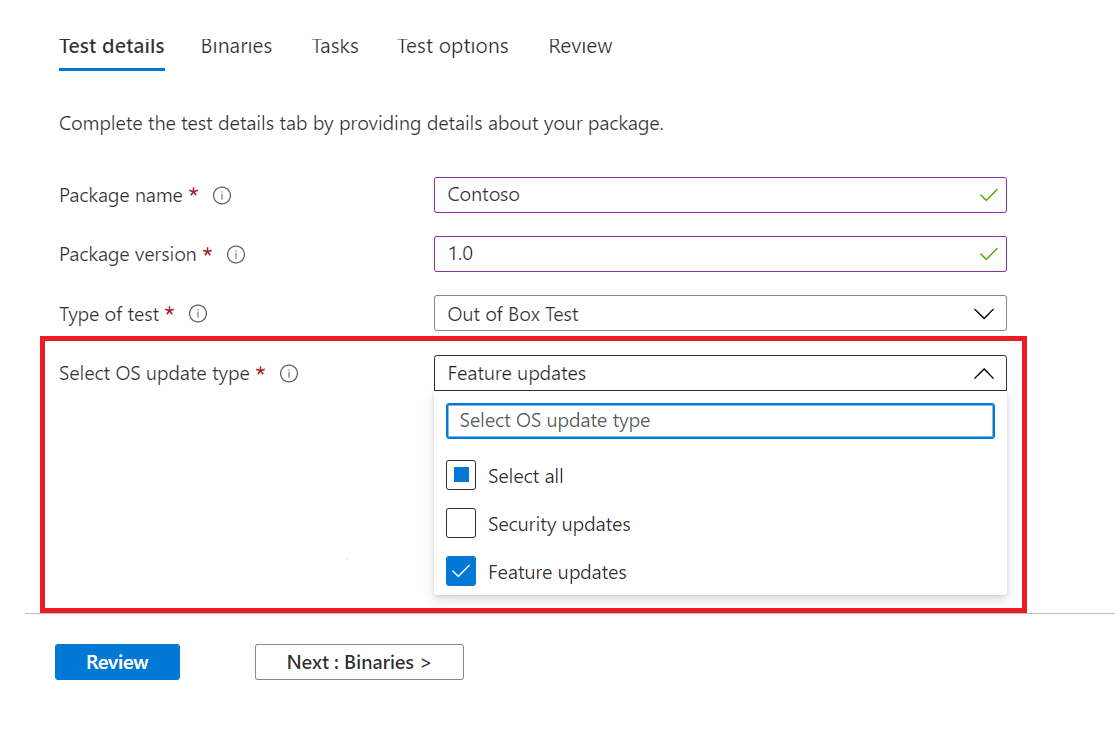
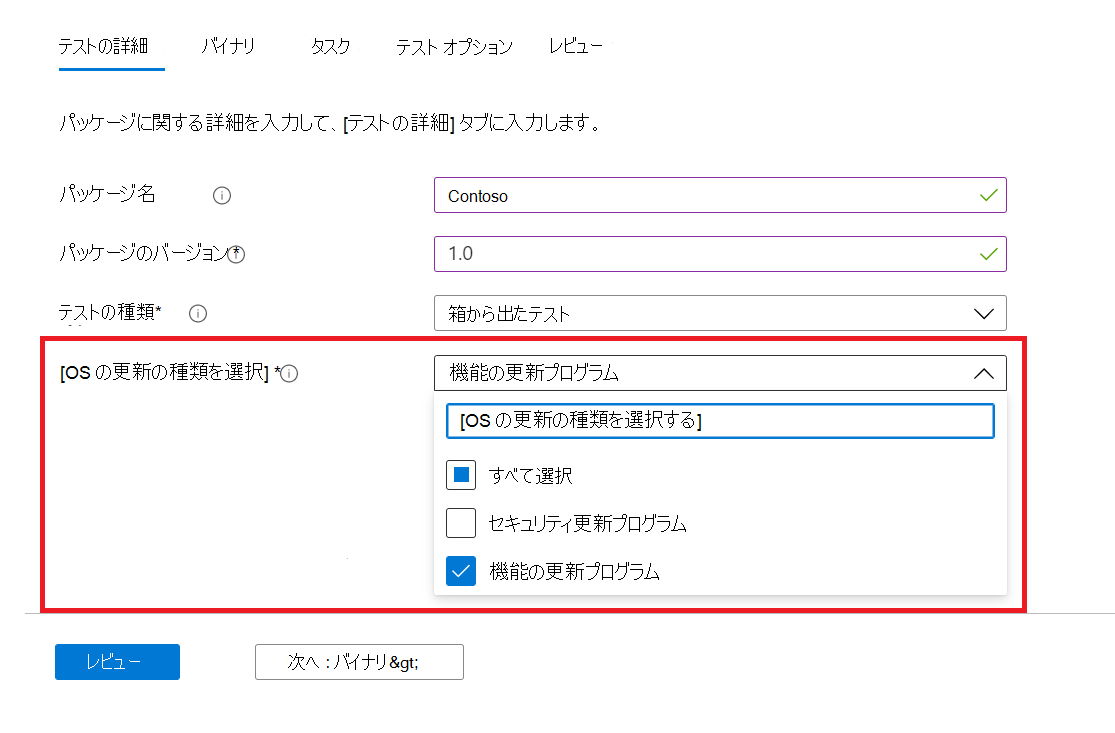
commit translated contents

diff --git a/microsoft-365/security/defender-endpoint/microsoft-defender-antivirus-windows.md b/microsoft-365/security/defender-endpoint/microsoft-defender-antivirus-windows.md
@@ -1,0 +1,86 @@
+---
+title: Microsoft Defender ウイルス対策
+description: 組み込みのマルウェア対策とウイルス対策の保護機能である Microsoft Defender ウイルス対策を管理、構成、使用する方法について説明します。
+keywords: Microsoft Defender ウイルス対策, windows defender, マルウェア対策, scep, システム センター エンドポイント保護, システム センター構成マネージャー, ウイルス, マルウェア, 脅威, 検出, 保護, セキュリティ
+search.product: eADQiWindows 10XVcnh
+ms.prod: m365-security
+ms.mktglfcycl: manage
+ms.sitesec: library
+ms.pagetype: security
+localization_priority: Priority
+ms.topic: article
+author: denisebmsft
+ms.author: deniseb
+ms.reviewer: mkaminska
+manager: dansimp
+ms.custom: nextgen
+ms.technology: mde
+ms.openlocfilehash: ceaf694d8b81e6b06ffe74efc4ad3d4d73471752
+ms.sourcegitcommit: b0f464b6300e2977ed51395473a6b2e02b18fc9e
+ms.translationtype: HT
+ms.contentlocale: ja-JP
+ms.lasthandoff: 07/07/2021
+ms.locfileid: "53323055"
+---
+# <a name="microsoft-defender-antivirus-in-windows"></a>Windows の Microsoft Defender ウイルス対策
+
+**適用対象:**
+
+- [Microsoft Defender for Endpoint](/microsoft-365/security/defender-endpoint/)
+
+Microsoft Defender ウイルス対策は、Microsoft Defender for Endpoint の次世代保護の主要コンポーネントです。 この保護は、機械学習、ビッグデータ分析、脅威耐性に関する詳細な調査、Microsoft のクラウド インフラストラクチャを組み合わせて、組織内のデバイス (または、エンドポイント) を保護します。 Windows Defender ウイルス対策は Windows に組み込まれており、Microsoft Defender for Endpoint と連携して、デバイスとクラウドを保護します。 
+
+## <a name="compatibility-with-other-antivirus-products"></a>他のウイルス対策製品との互換性
+
+デバイスで Microsoft 以外のウイルス対策/マルウェア対策製品を使用している場合は、Microsoft 以外のウイルス対策ソリューションと一緒にパッシブ モードで Microsoft Defender ウイルス対策を実行できる可能性があります。 使用するオペレーティング システムと、デバイスが Defender for Endpoint にオンボードされているかどうかによって異なります。 詳細については、「[Microsoft Defender ウイルス対策互換性](microsoft-defender-antivirus-compatibility.md)」を参照してください。
+
+## <a name="comparing-active-mode-passive-mode-and-disabled-mode"></a>アクティブ モード、パッシブ モード、および無効モードの比較
+
+次の表は、Microsoft Defender ウイルス対策がアクティブ モード、パッシブ モード、または無効である場合に期待される内容を示しています。
+
+| モード  | 動作  |
+|---------|---------|
+| アクティブ モード | アクティブ モードでは、Microsoft Defender ウイルス対策はデバイス上の主要なウイルス対策アプリとして使用されます。 ファイルがスキャンされ、脅威が修正され、検出された脅威が組織のセキュリティ レポートと Windows セキュリティ アプリに一覧表示されます。 |
+| パッシブ モード | パッシブ モードでは、Microsoft Defender ウイルス対策はデバイス上の主要なウイルス対策アプリとして使用されません。 ファイルがスキャンされ、検出された脅威が報告されますが、脅威は Microsoft Defender ウイルス対策によって修正されません。   |
+| 無効またはアンインストール済み  | 無効にするかアンインストールすると、Microsoft Defender ウイルス対策は使用されません。 ファイルのスキャン、脅威の修復は行われません。 一般に、Microsoft Defender ウイルス対策を無効にしたりアンインストールしたりすることはお勧めしません。  |
+
+詳細については、「[Microsoft Defender ウイルス対策互換性](microsoft-defender-antivirus-compatibility.md)」を参照してください。
+
+## <a name="check-the-state-of-microsoft-defender-antivirus-on-your-device"></a>デバイス上の Microsoft Defender ウイルス対策の状態を確認する
+
+デバイス上の Microsoft Defender ウイルス対策の状態を確認する場合は、Windows セキュリティ アプリや Windows PowerShell などのいくつかの方法のいずれかを使用できます。
+
+### <a name="use-the-windows-security-app-to-check-status-of-microsoft-defender-antivirus"></a>Windows セキュリティ アプリを使用して、Microsoft Defender ウイルス対策の状態を確認する
+
+1. Windows デバイスで、[スタート] メニューを選択し、`Security` の入力を開始します。 次に、結果で Windows セキュリティ アプリを開きます。
+
+2. **[ウイルスと脅威の防止]** を選択します。
+
+3. **[ウイルスと脅威の防止設定]** で **[設定の管理]** を選択します。
+
+設定ページにウイルス対策/マルウェア対策ソリューションの名前が表示されます。
+
+### <a name="use-powershell-to-check-status-of-microsoft-defender-antivirus"></a>PowerShell を使用して Microsoft Defender ウイルス対策の状態を確認する
+
+1. [スタート] メニューを選択し、`PowerShell` の入力を開始します。 次に、結果で Windows PowerShell を開きます。
+
+2. 種類 `Get-MpComputerStatus`。
+
+3. 結果のリストで、**AMRunningMode** 行を確認します。
+
+   - **通常** は、Microsoft Defender ウイルス対策がアクティブ モードで実行されていることを意味します。
+   - **パッシブ モード** は、Microsoft Defender ウイルス対策が実行されていることを意味しますが、デバイス上の主要なウイルス対策/マルウェア対策製品ではありません。
+   - **EDR ブロック モード** は、Microsoft Defender ウイルス対策が実行されており、「ブロック モードの EDR」と呼ばれる Microsoft Defender for Endpoint の機能が有効になっていることを意味します。 (「[ブロック モードのエンドポイントでの検出と対応 (EDR)](edr-in-block-mode.md)」を参照してください。)
+   - **SxS パッシブ モード** は、Microsoft Defender ウイルス対策が別のウイルス対策/マルウェア対策製品と一緒にパッシブ モードで実行されており、デバイスが Microsoft Defender for Endpoint にオンボードされていないことを意味します。 この場合、Microsoft Defender ウイルス対策には限定された定期的なスキャンが使用されます。 詳細については、「[Microsoft Defender ウイルス対策で限定された定期的なスキャンを使用する](limited-periodic-scanning-microsoft-defender-antivirus.md)」を参照してください。
+
+Get-MpComputerStatus PowerShell コマンドレットの詳細については、リファレンス記事 [Get-MpComputerStatus](/powershell/module/defender/get-mpcomputerstatus) を参照してください。
+
+## <a name="get-your-antivirusantimalware-platform-updates"></a>ウイルス対策/マルウェア対策プラットフォームの更新プログラムを取得する
+
+Microsoft Defender ウイルス対策、またはウイルス対策/マルウェア対策ソリューションを最新の状態に保つことが重要です。 Microsoft は定期的な更新プログラムをリリースして、デバイスが、新しいマルウェアや攻撃手法から保護する最新のテクノロジを備えていることを確認します。 詳細については、「[Microsoft Defender ウイルス対策の更新プログラムの管理とベースラインの適用](manage-updates-baselines-microsoft-defender-antivirus.md)」を参照してください。 
+
+## <a name="see-also"></a>関連項目
+
+- [Windows Server 上の Microsoft Defender ウイルス対策](microsoft-defender-antivirus-on-windows-server.md)
+- [Microsoft Defender ウイルス対策の管理および構成](configuration-management-reference-microsoft-defender-antivirus.md)
+- [Microsoft Defender ウイルス対策を評価する](evaluate-microsoft-defender-antivirus.md)

diff --git a/microsoft-365/security/defender-endpoint/next-generation-protection.md b/microsoft-365/security/defender-endpoint/next-generation-protection.md
@@ -1,0 +1,46 @@
+---
+title: Microsoft Defender for Endpoint の次世代保護の概要
+description: Microsoft Defender for Endpoint の次世代保護の概要をご覧ください。 あらゆる種類の新たな脅威を捕らえるように設計された次世代保護を使用して、ネットワークのセキュリティ境界を強化します。
+keywords: Microsoft Defender ウイルス対策、Windows Defender、マルウェア対策、ウイルス、マルウェア、脅威、検出、保護、セキュリティ
+search.product: eADQiWindows 10XVcnh
+ms.prod: m365-security
+ms.mktglfcycl: manage
+ms.sitesec: library
+ms.pagetype: security
+localization_priority: Priority
+ms.topic: article
+author: denisebmsft
+ms.author: deniseb
+ms.reviewer: mkaminska
+manager: dansimp
+ms.custom: nextgen
+ms.technology: mde
+ms.openlocfilehash: 5fdb1d7498fb35ac38638a75bd3656fae8206ea0
+ms.sourcegitcommit: b0f464b6300e2977ed51395473a6b2e02b18fc9e
+ms.translationtype: HT
+ms.contentlocale: ja-JP
+ms.lasthandoff: 07/07/2021
+ms.locfileid: "53323271"
+---
+# <a name="next-generation-protection-overview"></a>次世代保護の概要
+
+Microsoft Defender for Endpoint には、ネットワークのセキュリティ境界を強化するための次世代保護が含まれています。 次世代保護は、あらゆる種類の新たな脅威を捕らえるように設計されました。 Microsoft Defender ウイルス対策に加えて、次世代保護サービスには以下の機能が含まれています。
+
+- [挙動ベースおよびヒューリスティックのリアルタイム ウイルス対策保護](configure-protection-features-microsoft-defender-antivirus.md)。これには、ファイルとプロセスの動作監視およびその他のヒューリスティックを使用した常時オンのスキャンが含まれています (「*リアルタイム保護*」とも呼ばれています)。 安全ではないと見なされているもののマルウェアとして検出されない可能性のあるアプリの検出とブロックも含まれています。
+- [クラウドによる保護](cloud-protection-microsoft-defender-antivirus.md)。これには、新たに出現する脅威のほぼ瞬時の検出とブロックが含まれています。
+- [専用の保護および製品の更新プログラム](manage-updates-baselines-microsoft-defender-antivirus.md)。これには、Microsoft Defender ウイルス対策を最新状態に維持することに関連する更新プログラムが含まれています。
+
+## <a name="try-a-demo"></a>デモを試す
+
+[Microsoft Defender for Endpoint のデモ用 Web サイト](https://demo.wd.microsoft.com?ocid=cx-wddocs-testground)にアクセスし、以下の保護機能が動作していることを確認したり、デモのシナリオを使用して検証したりしましょう。
+
+- クラウドによる保護
+- 事前ブロック (BAFS) 保護
+- 望ましくない可能性のあるアプリケーション (PUA) 保護
+
+## <a name="configure-next-generation-protection-services"></a>次世代の保護サービスを構成する
+
+次世代の保護サービスを構成する方法の詳細については、「[Microsoft Defender ウイルス対策機能を構成する](configure-microsoft-defender-antivirus-features.md)」を参照してください。
+
+> [!Note]  
+> 構成と管理は、Windows Server と Windows クライアントでほぼ同じです。 ただし、いくつかの違いがあります。 詳細については、「[Windows Server 上の Microsoft Defender ウイルス対策](microsoft-defender-antivirus-on-windows-server.md)」を参照してください。
